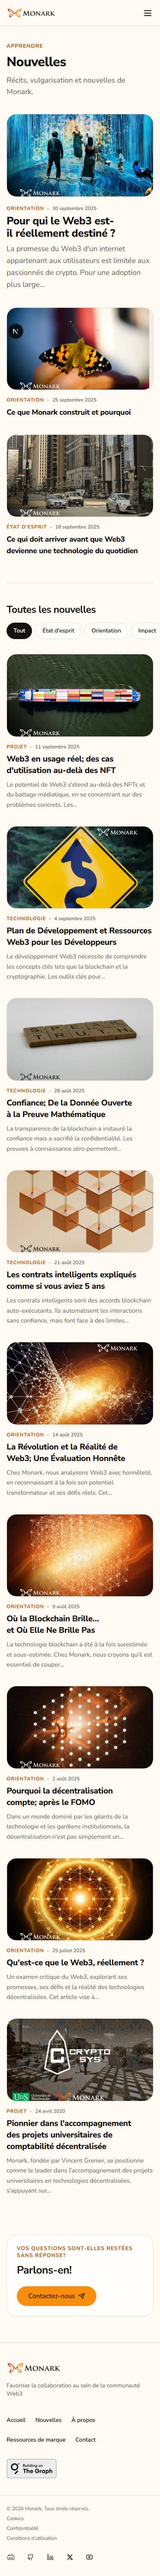
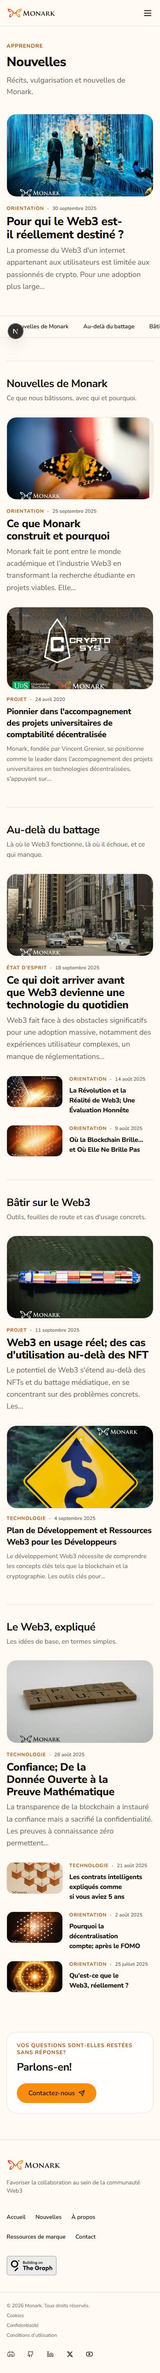
docs: Learn hub and news screenshots and design note
Claude-Session: https://claude.ai/code/session_01At2SeqiTfzUbYRLANAdBLP

diff --git a/docs/redesign-2026/README.md b/docs/redesign-2026/README.md
@@ -49,7 +49,7 @@ Headings and UI strings are in sentence case in English; the French strings alre
 
 **Learn hub.** `/learn` replaces the "Work in progress" placeholder with a hub built from typed en/fr content (`components/pages/learn/learn.i18n.ts`) and section components, like the About page, and follows the brand's text budgets ("Restraint", guidelines §8). Sections: a hero (headline and one line); learning paths for students, developers and industry, each with a photo of people, one line from its participate page, an existing news article to read first and a link to the participate page; the three latest news items (same data as `/learn/news`); the Monark docs on an inverted panel (the Notion hub the top navigation already links as "Docs", plus the GitHub organisation); Discord and YouTube from `socials.ts`; a closing call to action. No courses, dates or partners were added. The three photos are free-licence Unsplash images, listed in `docs/assets.md`. The blurred glow copy was removed from `roadmap.svg` (hero art, also used by the home FAQ), as it was for the other line art. See `after/learn-*` and `after/fr-learn-*`.
 
-**News.** The list (`/learn/news`) reads like a magazine front page: the latest story as a large image-led feature (16:9) with the next two beside it, then every other story in an image-first grid. Each card shows the cover, one topic tag, the date, the title and a summary cut to 20 words; the whole card is one link, and hover lifts it slightly and zooms the image (motion-safe). Topic pills filter the grid (tags carried by every item, like "Article", are left out); they scroll sideways on phones. There is an empty state for no news. The article page (`/learn/news/[id]`) has a back link, tags, title, summary, byline (author, date, reading time, city), share buttons (LinkedIn, X, copy link), a large 16:9 cover with its credit, the MDX body at ~68ch, the original source when there is one, and "More news". The body's typography is a CSS module (`news-prose.module.scss`), so it can't leak into other pages, and the route no longer wraps pages in `<article>`. Dates are formatted in UTC, because the stored calendar days showed as the previous day in North American time zones. Share metadata now uses the article's real `.webp` cover (the shared helper pointed to a `.jpg` that doesn't exist), with Open Graph `article` fields, en/fr alternates and NewsArticle JSON-LD. See `after/news-*` and `after/fr-news-*`.
+**News.** The list (`/learn/news`) reads like a magazine: the latest story as a wide lead (16:9 image beside the title on wide screens), a sticky row of jump links, then one section per category. Each section has a heading and one short line, then a large 16:9 feature with the other stories beside it as compact rows (a full card when there is only one), mirrored from one section to the next on wide screens (feature left, then right); more than four stories would continue in a grid below. On phones everything stacks, feature first, and the jump links scroll sideways and follow the section in view. The lead story isn't repeated in its category. Categories come from a one-line `category` field in each article's frontmatter (`monark`, `beyond-the-hype`, `build`, `explained`), copied into the generated index; labels are in `news.i18n.ts`, and an article without a category would land in a final "More news" section. Cards show the cover, one topic tag, the date, the title and a summary cut to 20 words; the whole card is one link, and hover lifts it slightly and zooms the image (motion-safe). There is an empty state for no news. The article page (`/learn/news/[id]`) has a back link, tags, title, summary, byline (author, date, reading time, city), share buttons (LinkedIn, X, copy link), a large 16:9 cover with its credit, the MDX body at ~68ch, the original source when there is one, and "More news". The body's typography is a CSS module (`news-prose.module.scss`), so it can't leak into other pages, and the route no longer wraps pages in `<article>`. Dates are formatted in UTC, because the stored calendar days showed as the previous day in North American time zones. Share metadata now uses the article's real `.webp` cover (the shared helper pointed to a `.jpg` that doesn't exist), with Open Graph `article` fields, en/fr alternates and NewsArticle JSON-LD. See `after/news-*` and `after/fr-news-*`.
 
 **Motion.** Transitions run at 150–250ms ease-out. `prefers-reduced-motion` turns off animations, transitions and view transitions, and the table of contents scrolls instantly under reduced motion.
 
